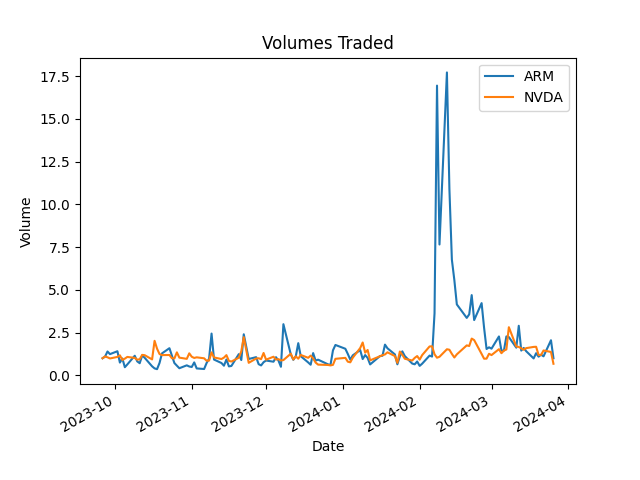
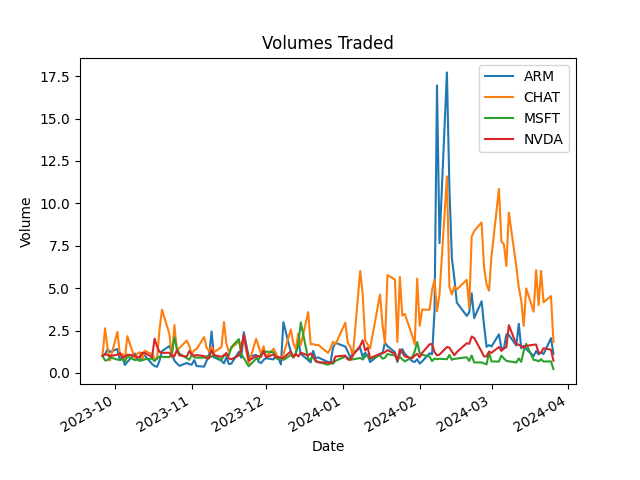
minor changes to ma func

diff --git a/main.py b/main.py
@@ -3,11 +3,11 @@ import pandas as pd
 import utils
 
 # A ticker is one stock
-tickers = ['NVDA','ARM']
+tickers = ['NVDA','ARM', 'MSFT', 'CHAT']
 
 #Data manipulation
 
-# Selecting relevant columns from the data frame and scaling them 
+# Selecting relevant columns from the pandas data frame and scaling them 
 df_close_prices = yf.download(tickers, period = "6mo")['Close']
 df_volumes = yf.download(tickers, period = "6mo")['Volume']
 scalled_close_prices = df_close_prices / df_close_prices.iloc[0,:]
@@ -15,17 +15,16 @@ scalled_volumes = df_volumes / df_volumes.iloc[0,:]
 
 #calculations and cleaning NAN values due to missing data
 
-# Calculating the daily change in precentages
+# Calculating the daily change in precentages for each stock
 df_daily_returns = (df_close_prices.pct_change()* 100).fillna(0)
 #calculating RSI measure which used for over/under bought 
 df_rsi_result = utils.calculate_rsi(df_close_prices).fillna(0)
-
+#calculating the moving avg for each stock with a window of 50 days
 df_moving_avg = utils.ma(50, df_close_prices).dropna()
 
 
 
 #Visualization
-
 
 # Plotting close prices for all stocks 
 utils.plotShow(scalled_close_prices, "Closing Prices", "Date", "Price")
@@ -39,5 +38,5 @@ utils.plotShow(df_daily_returns, "Daily Returns", "Date", "Change in %")
 #Plotting RSI measure for each stock
 utils.plotShow(df_rsi_result, "RSI measure", "Date", "RSI")
 
-#Plotting the last 50 days Moving avg for each stock
-utils.plotShow(df_moving_avg,"Moving avg of last 50 days", "Date", "Moving avg")
+#Plotting the Moving avg for each stock
+utils.plotShow(df_moving_avg,"Moving avg", "Date", "Moving avg")

diff --git a/utils.py b/utils.py
@@ -2,7 +2,7 @@ import matplotlib.pyplot as plt
 
 tickers = ['NVDA','ARM']
 
-def plotShow(data_item, title_plt,xlable_plt,ylabel_plt,size = (2, 5)):
+def plotShow(data_item, title_plt,xlable_plt,ylabel_plt,size = (1, 1)):
         plt.figure(figsize=size)
         data_item.plot()
         plt.title(title_plt)
@@ -31,7 +31,7 @@ def calculate_rsi(data, window=14):
     
     return rsi
 
-# Calculate the 50-day moving average
+# Calculate the moving average with a set window of days
 def ma(window,data):  
     moving_avg_window = window
     return data.rolling(window=moving_avg_window).mean()
